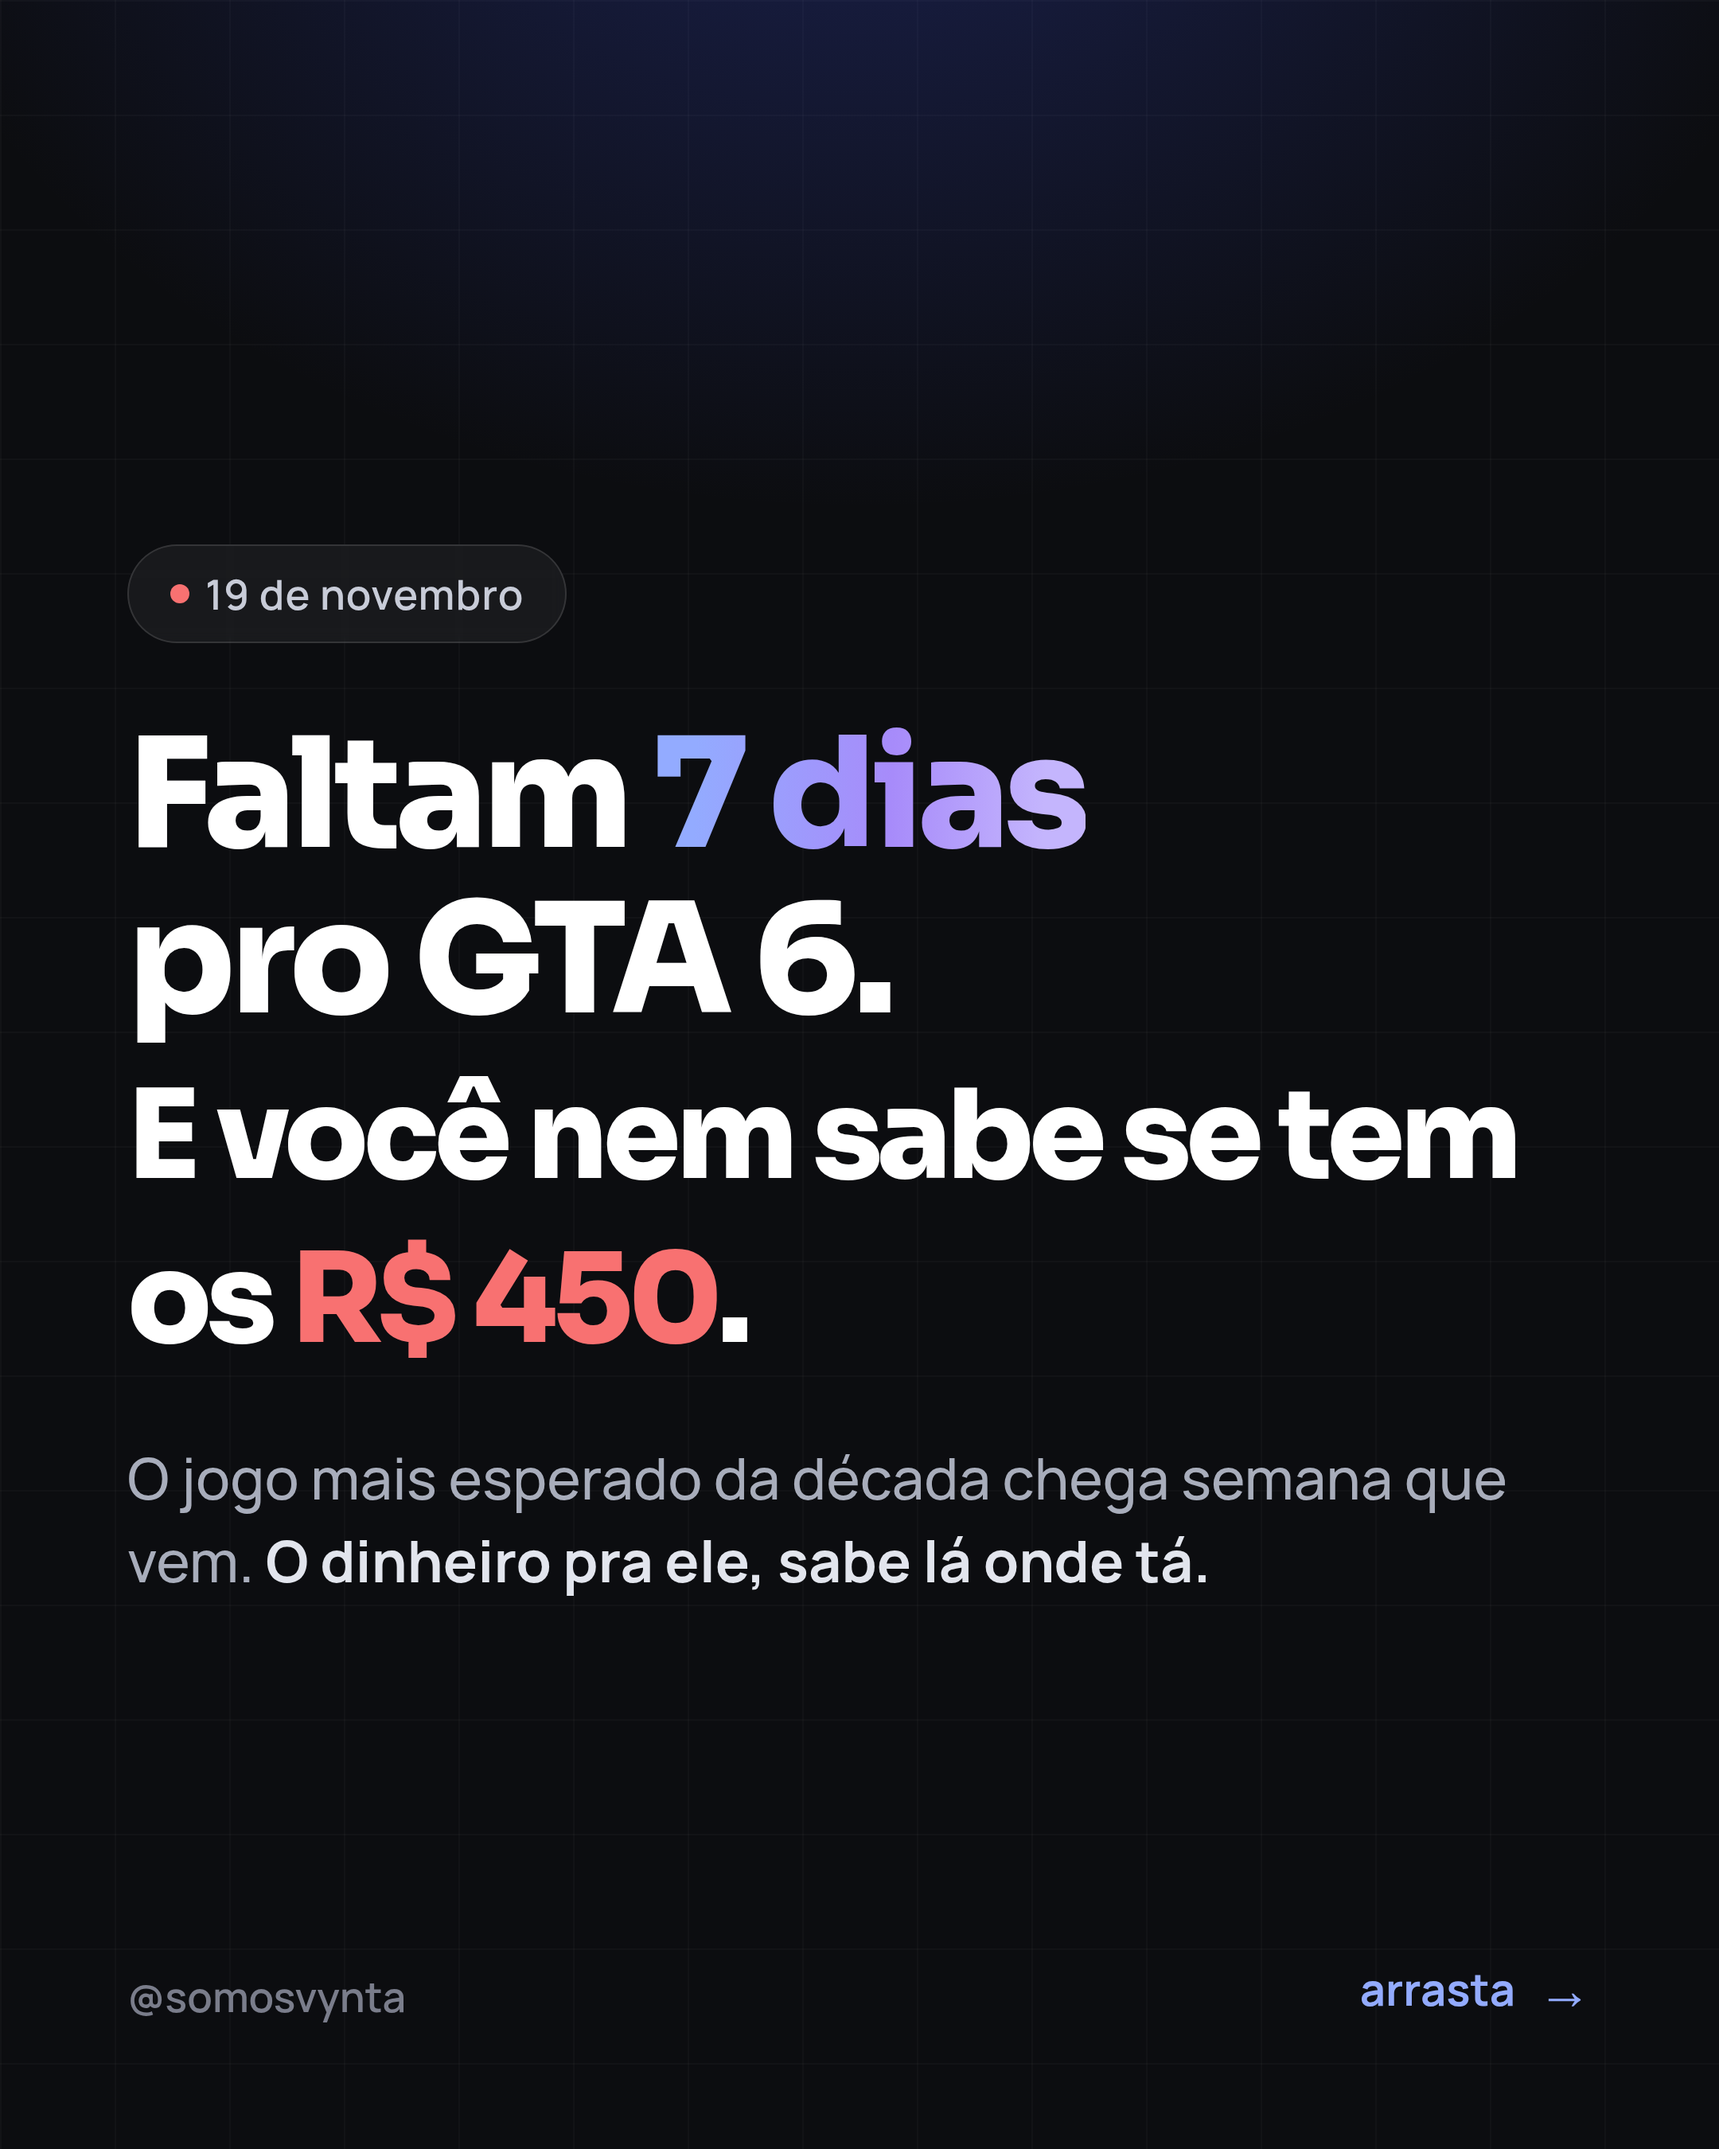
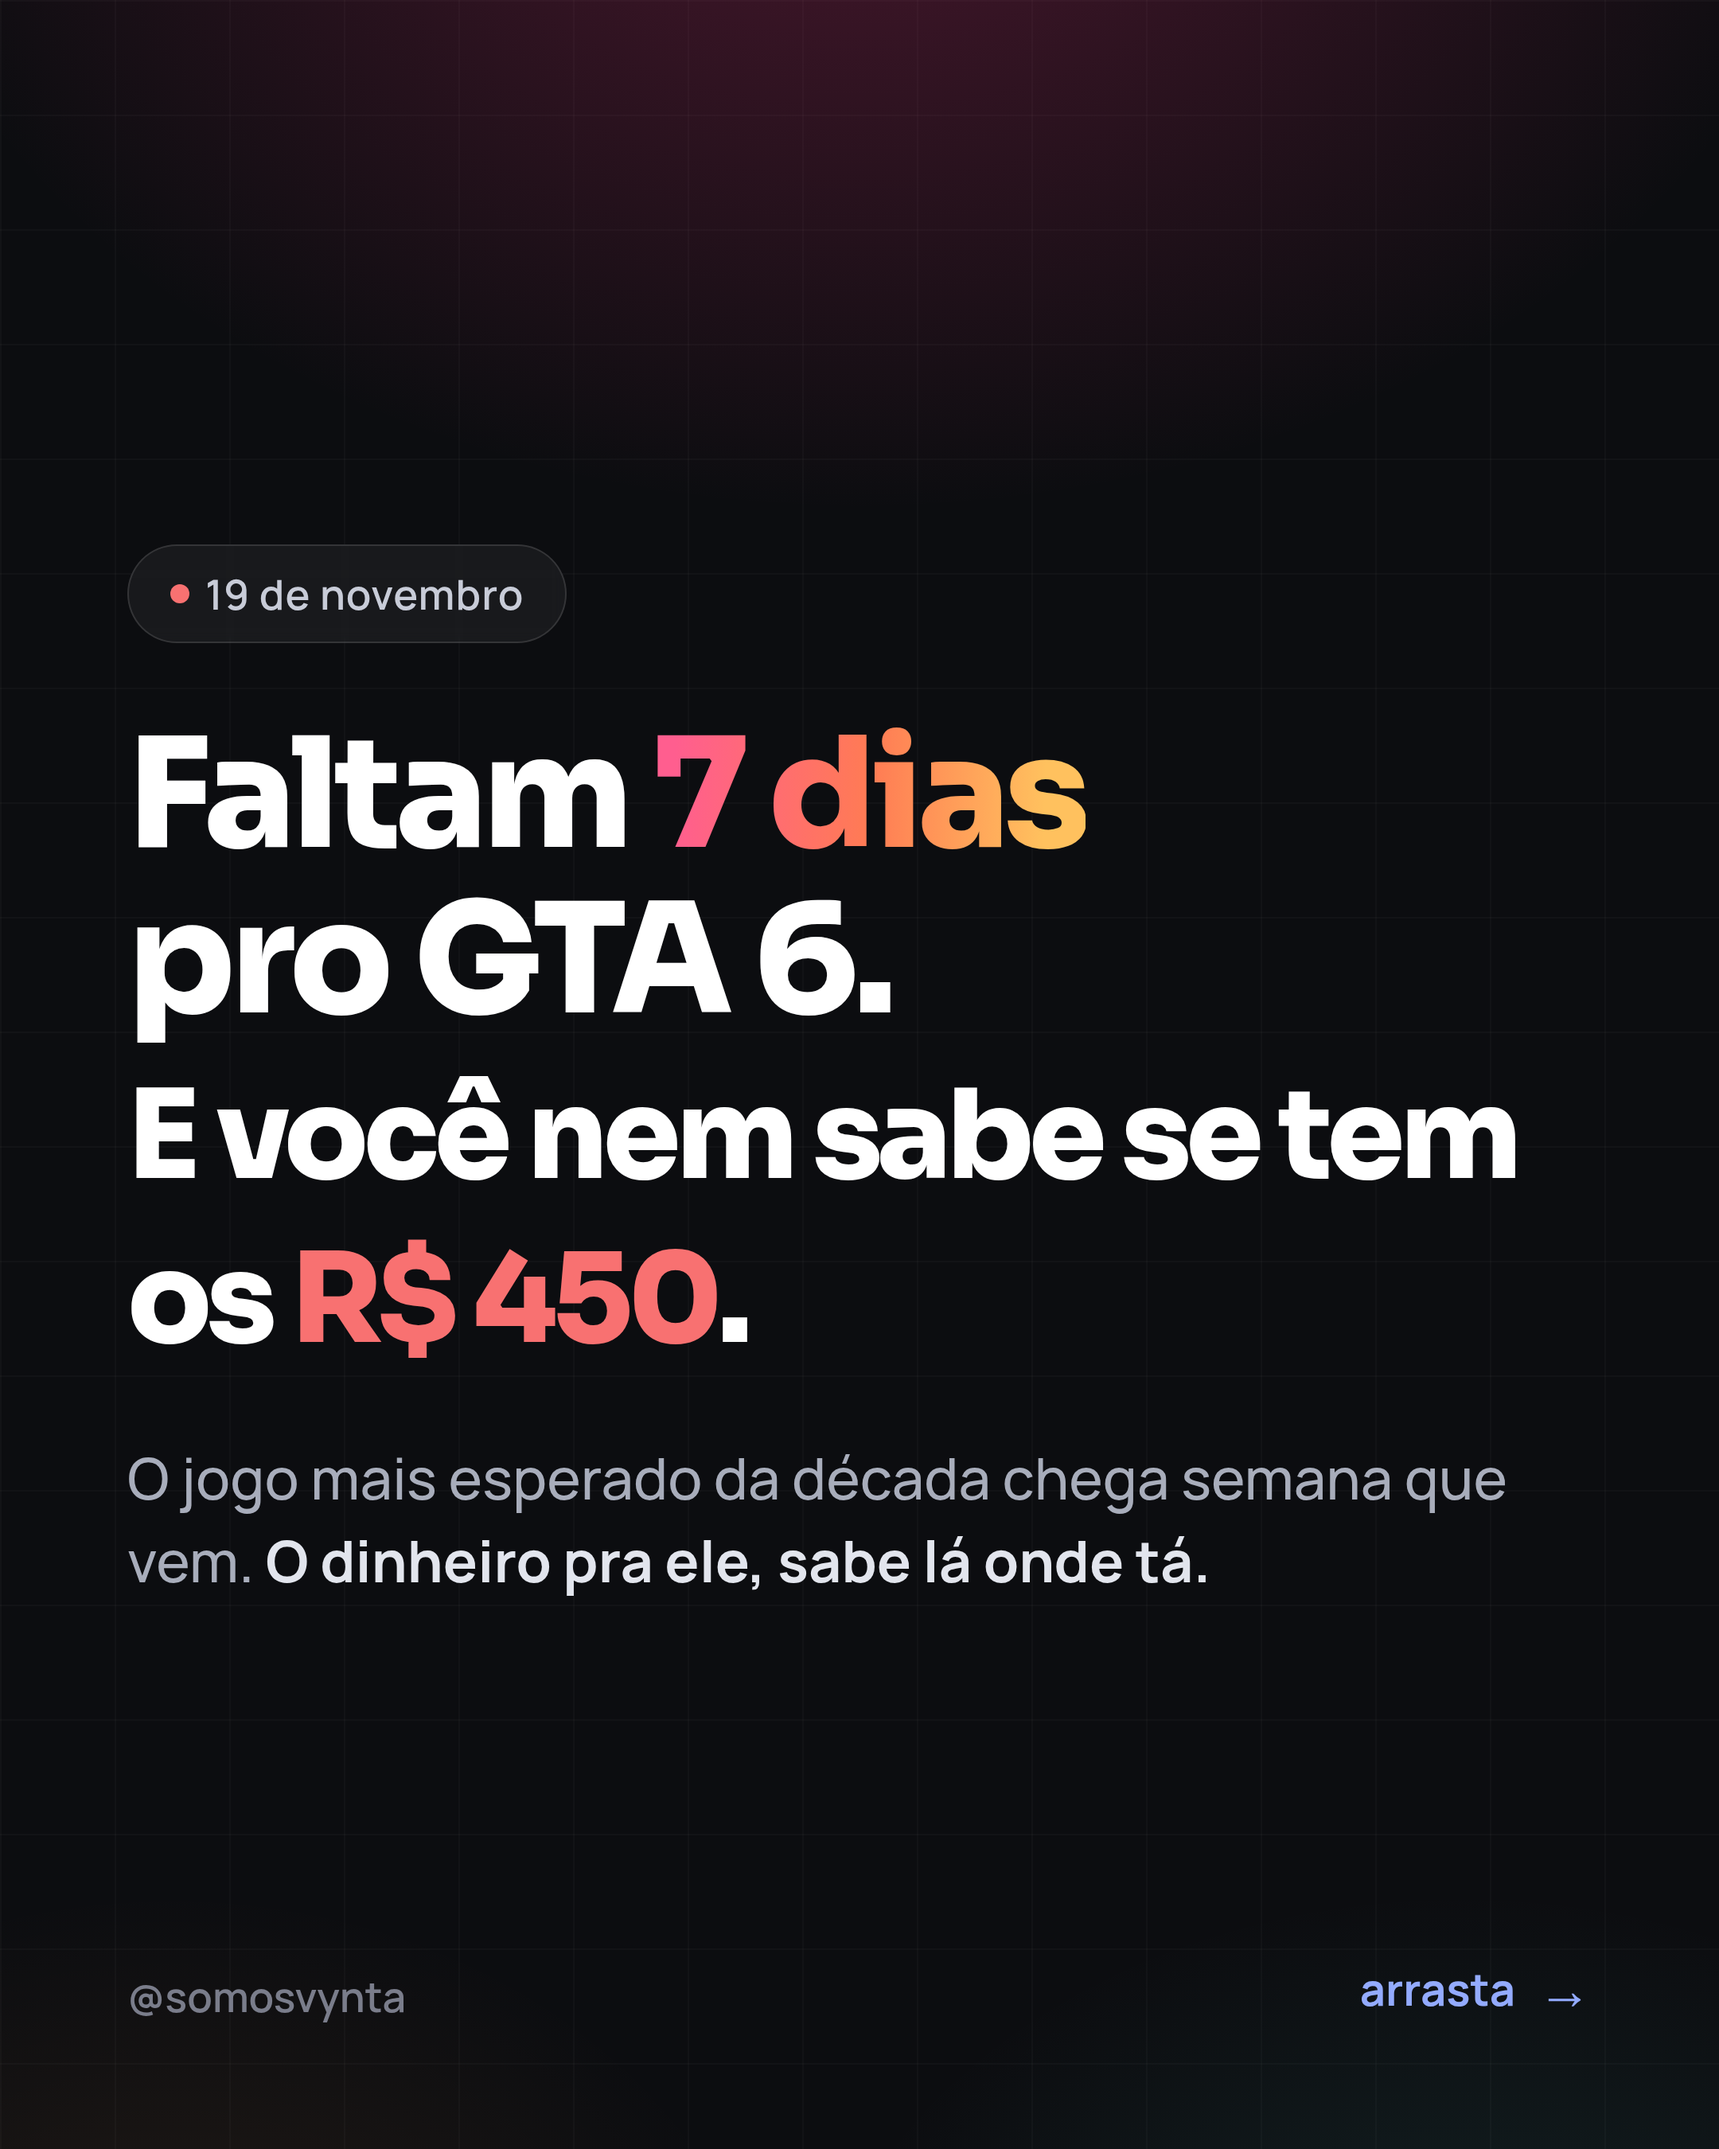
chore(marketing): paleta GTA 6 (sunset rosa/laranja + teal) no post 003
Generated with [Devin](https://devin.ai)

Changed region(s): [[0.2792, 0.0, 0.7444, 0.0933], [0.3722, 0.3422, 0.6514, 0.4044]]

diff --git a/marketing/instagram/003-gta6/slides.html b/marketing/instagram/003-gta6/slides.html
@@ -9,7 +9,7 @@
   * { margin: 0; padding: 0; box-sizing: border-box; }
   body { background: #000; font-family: 'Manrope', sans-serif; }
   .slide { position: relative; width: 1080px; height: 1350px; overflow: hidden; background: #0c0d10; color: #f1f3f7; display: flex; flex-direction: column; padding: 90px 80px; }
-  .slide::before { content: ''; position: absolute; inset: 0; background: radial-gradient(ellipse 90% 55% at 50% -12%, rgba(66,88,249,0.28), transparent 65%), linear-gradient(rgba(255,255,255,0.025) 1px, transparent 1px), linear-gradient(90deg, rgba(255,255,255,0.025) 1px, transparent 1px); background-size: auto, 72px 72px, 72px 72px; pointer-events: none; }
+  .slide::before { content: ''; position: absolute; inset: 0; background: radial-gradient(ellipse 90% 55% at 50% -12%, rgba(232,50,122,0.30), transparent 65%), radial-gradient(ellipse 65% 40% at 85% 112%, rgba(78,205,196,0.12), transparent 60%), radial-gradient(ellipse 60% 40% at 10% 112%, rgba(255,161,79,0.10), transparent 60%), linear-gradient(rgba(255,255,255,0.025) 1px, transparent 1px), linear-gradient(90deg, rgba(255,255,255,0.025) 1px, transparent 1px); background-size: auto, auto, auto, 72px 72px, 72px 72px; pointer-events: none; }
   .slide > * { position: relative; }
   .center { justify-content: center; align-items: flex-start; }
   .eyebrow { display: inline-flex; align-items: center; gap: 10px; align-self: flex-start; border: 1px solid rgba(255,255,255,0.12); background: rgba(255,255,255,0.05); backdrop-filter: blur(4px); border-radius: 999px; padding: 12px 26px; font-size: 26px; font-weight: 600; color: #c8ccd8; letter-spacing: 0.02em; }
@@ -22,6 +22,8 @@
   .lg { font-size: 76px; margin-top: 44px; }
   .md { font-size: 60px; margin-top: 44px; }
   .grad { background: linear-gradient(92deg, #93abff 10%, #a78bfa 55%, #c4b5fd 90%); -webkit-background-clip: text; background-clip: text; color: transparent; }
+  .grad-gta { background: linear-gradient(92deg, #ff5e8f 5%, #ff7b54 50%, #ffc15e 90%); -webkit-background-clip: text; background-clip: text; color: transparent; }
+  .pink { color: #ff5e8f; } .teal { color: #4ecdc4; }
   .red { color: #f87171; } .amber { color: #fbbf24; } .green { color: #34d399; } .brand { color: #93abff; }
   .sub { margin-top: 40px; font-size: 36px; line-height: 1.45; color: #a8adbb; max-width: 880px; font-weight: 500; }
   .sub strong { color: #e2e5ed; font-weight: 700; }
@@ -57,7 +59,7 @@
 <!-- SLIDE 1 — HOOK D-7 -->
 <section class="slide center">
   <div class="eyebrow"><span class="dot red"></span> 19 de novembro</div>
-  <h1 class="xl">Faltam <span class="grad">7 dias</span><br />pro GTA 6.<br /><span style="font-size:78px">E você nem sabe se tem os <span class="red">R$ 450</span>.</span></h1>
+  <h1 class="xl">Faltam <span class="grad-gta">7 dias</span><br />pro GTA 6.<br /><span style="font-size:78px">E você nem sabe se tem os <span class="red">R$ 450</span>.</span></h1>
   <p class="sub">O jogo mais esperado da década chega semana que vem. <strong>O dinheiro pra ele, sabe lá onde tá.</strong></p>
   <div class="swipe">arrasta <span style="font-size:34px">→</span></div>
   <div class="foot"><span>@somosvynta</span></div>
@@ -65,8 +67,8 @@
 
 <!-- SLIDE 2 — O PREÇO -->
 <section class="slide center">
-  <div class="eyebrow"><svg viewBox="0 0 24 24" fill="none" stroke="#93abff" stroke-width="2" stroke-linecap="round" stroke-linejoin="round"><line x1="6" x2="10" y1="11" y2="15"/><line x1="8" x2="8" y1="9" y2="17"/><line x1="15" x2="15.01" y1="12" y2="12"/><line x1="18" x2="18.01" y1="10" y2="10"/><path d="M17.32 5H6.68a4 4 0 0 0-3.978 3.59c-.006.052-.01.101-.017.152C2.604 9.416 2 14.456 2 16a3 3 0 0 0 3 3c1 0 1.5-.5 2-1l1.414-1.414A2 2 0 0 1 9.828 16h4.344a2 2 0 0 1 1.414.586L17 18c.5.5 1 1 2 1a3 3 0 0 0 3-3c0-1.545-.604-6.584-.685-7.258-.007-.05-.011-.1-.017-.151A4 4 0 0 0 17.32 5z"/></svg> R$ 449,90 na edição padrão</div>
-  <h2 class="lg">Parece caro?<br /><br /><span class="grad">Depende do que escapou</span> do seu bolso esse mês.</h2>
+  <div class="eyebrow"><svg viewBox="0 0 24 24" fill="none" stroke="#ff5e8f" stroke-width="2" stroke-linecap="round" stroke-linejoin="round"><line x1="6" x2="10" y1="11" y2="15"/><line x1="8" x2="8" y1="9" y2="17"/><line x1="15" x2="15.01" y1="12" y2="12"/><line x1="18" x2="18.01" y1="10" y2="10"/><path d="M17.32 5H6.68a4 4 0 0 0-3.978 3.59c-.006.052-.01.101-.017.152C2.604 9.416 2 14.456 2 16a3 3 0 0 0 3 3c1 0 1.5-.5 2-1l1.414-1.414A2 2 0 0 1 9.828 16h4.344a2 2 0 0 1 1.414.586L17 18c.5.5 1 1 2 1a3 3 0 0 0 3-3c0-1.545-.604-6.584-.685-7.258-.007-.05-.011-.1-.017-.151A4 4 0 0 0 17.32 5z"/></svg> R$ 449,90 na edição padrão</div>
+  <h2 class="lg">Parece caro?<br /><br /><span class="grad-gta">Depende do que escapou</span> do seu bolso esse mês.</h2>
   <p class="sub">Cafezinho, Uber, assinatura esquecida… junta tudo e <strong>o GTA já tava pago</strong>.</p>
   <div class="foot"><span>@somosvynta</span><div class="dots"><i class="on"></i><i class="on"></i><i></i><i></i><i></i><i></i><i></i><i></i></div></div>
 </section>
@@ -77,7 +79,7 @@
   <div style="margin-top:56px; display:flex; align-items:center; gap:28px">
     <span class="icbox" style="width:110px; height:110px; border-radius:30px"><svg viewBox="0 0 24 24" style="width:56px;height:56px" fill="none" stroke="#34d399" stroke-width="1.8" stroke-linecap="round" stroke-linejoin="round"><line x1="10" x2="14" y1="2" y2="2"/><line x1="12" x2="15" y1="14" y2="11"/><circle cx="12" cy="14" r="8"/></svg></span>
   </div>
-  <h2 class="lg" style="margin-top:44px">Dá tempo.<br /><span class="grad">Exatos 7 dias.</span></h2>
+  <h2 class="lg" style="margin-top:44px">Dá tempo.<br /><span class="grad-gta">Exatos 7 dias.</span></h2>
   <p class="sub">7 dias anotando <strong>tudo</strong> que você gasta = a resposta exata: o GTA cabe ou não cabe no seu bolso.</p>
   <div class="foot"><span>@somosvynta</span><div class="dots"><i class="on"></i><i class="on"></i><i class="on"></i><i></i><i></i><i></i><i></i><i></i></div></div>
 </section>
@@ -119,7 +121,7 @@
 <!-- SLIDE 7 — OS DOIS CENÁRIOS -->
 <section class="slide center">
   <div class="eyebrow"><span class="dot amber"></span> dia 19 tem dois cenários</div>
-  <h2 class="lg" style="font-size:68px">Ou você tá<br />jogando <span class="grad">Vice City…</span></h2>
+  <h2 class="lg" style="font-size:68px">Ou você tá<br />jogando <span class="grad-gta">Vice City…</span></h2>
   <h2 class="lg" style="font-size:68px; margin-top:24px">ou pelo menos<br />descobriu pra onde<br />o dinheiro foi.</h2>
   <p class="sub">(O segundo também é vitória — e dura mais que o jogo.)</p>
   <div class="foot"><span>@somosvynta</span><div class="dots"><i class="on"></i><i class="on"></i><i class="on"></i><i class="on"></i><i class="on"></i><i class="on"></i><i class="on"></i><i></i></div></div>
@@ -128,7 +130,7 @@
 <!-- SLIDE 8 — CTA -->
 <section class="slide center" style="align-items:center; text-align:center">
   <img src="/public/assets/logo/logo-mark.png" alt="Vynta" style="width:140px; margin-bottom:40px" />
-  <h2 style="font-size:54px; line-height:1.15">Manda pra quem vai zerar<br />o GTA 6 no lançamento —<br /><span class="grad">e pra quem tá quebrado<br />e vai fingir que não liga</span>&nbsp;<span class="icline" style="font-size:54px"><svg viewBox="0 0 24 24" fill="none" stroke="#93abff" stroke-width="2" stroke-linecap="round" stroke-linejoin="round"><circle cx="12" cy="12" r="10"/><path d="M18 13a6 6 0 0 1-6 5 6 6 0 0 1-6-5h12Z"/><line x1="9" x2="9.01" y1="9" y2="9"/><line x1="15" x2="15.01" y1="9" y2="9"/></svg></span></h2>
+  <h2 style="font-size:54px; line-height:1.15">Manda pra quem vai zerar<br />o GTA 6 no lançamento —<br /><span class="grad-gta">e pra quem tá quebrado<br />e vai fingir que não liga</span>&nbsp;<span class="icline" style="font-size:54px"><svg viewBox="0 0 24 24" fill="none" stroke="#4ecdc4" stroke-width="2" stroke-linecap="round" stroke-linejoin="round"><circle cx="12" cy="12" r="10"/><path d="M18 13a6 6 0 0 1-6 5 6 6 0 0 1-6-5h12Z"/><line x1="9" x2="9.01" y1="9" y2="9"/><line x1="15" x2="15.01" y1="9" y2="9"/></svg></span></h2>
   <div class="ghost">
     <svg viewBox="0 0 24 24" fill="none" stroke="currentColor" stroke-width="2" stroke-linecap="round" stroke-linejoin="round"><rect x="2" y="2" width="20" height="20" rx="5" ry="5"/><path d="M16 11.37A4 4 0 1 1 12.63 8 4 4 0 0 1 16 11.37z"/><line x1="17.5" y1="6.5" x2="17.51" y2="6.5"/></svg>
     Segue @somosvynta
